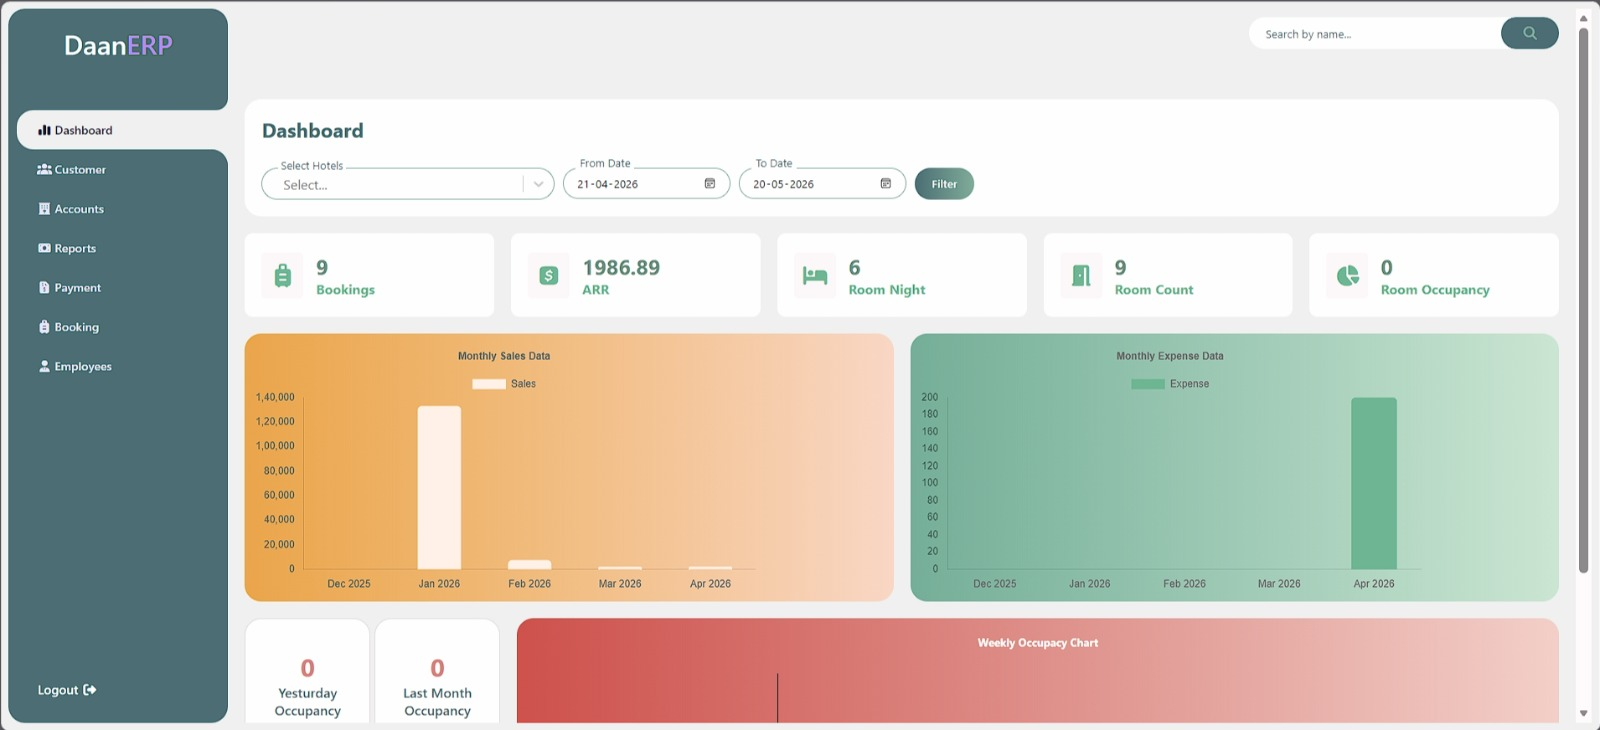
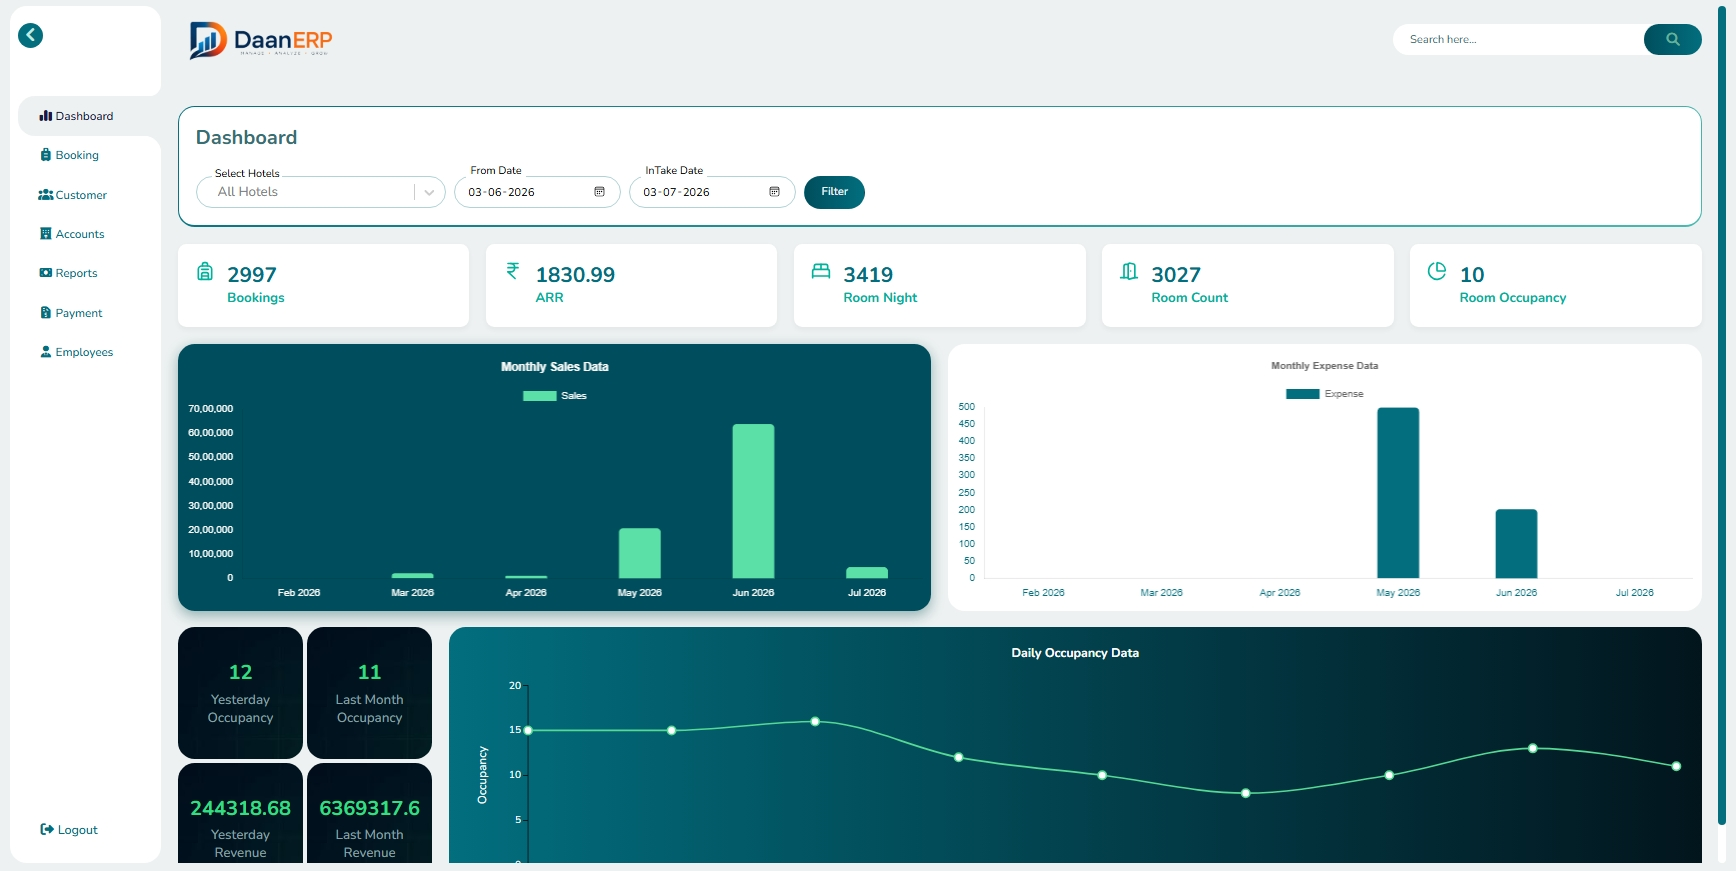
email send

diff --git a/src/components/contact/page.tsx b/src/components/contact/page.tsx
@@ -16,27 +16,45 @@ export default function ContactSection() {
     message: "",
     subject: "",
   });
+const [loading, setLoading] = useState(false);
+  // const onChange = (
+  //   e: React.ChangeEvent<HTMLInputElement | HTMLTextAreaElement>,
+  // ) => {
+  //   setData((prev) => ({ ...prev, [e.target.name]: e.target.value }));
+  // };
 
-  const onChange = (
-    e: React.ChangeEvent<HTMLInputElement | HTMLTextAreaElement>,
-  ) => {
-    setData((prev) => ({ ...prev, [e.target.name]: e.target.value }));
-  };
-
-  const sendEmail = async (e: React.FormEvent<HTMLFormElement>) => {
+   const handleSubmit = async (e) => {
     e.preventDefault();
-    const res = await resend.emails.send({
-      from: data.email,
-      to: "anoopvranoop33@gmail.com",
-      subject: data.subject,
-      html: "<p>" + data.message + "</p>",
-    });
-    if (res.error) {
-      alert("Failed to send message. Please try again later.");
-      return;
+
+    setLoading(true);
+
+    const form = e.target;
+    const formData = new FormData(form);
+
+    try {
+      const response = await fetch(
+        "https://formsubmit.co/anoopvranoop33@gmail.com",
+        {
+          method: "POST",
+          body: formData,
+          headers: {
+            Accept: "application/json",
+          },
+        }
+      );
+
+      if (response.ok) {
+        alert("✅ Email sent successfully!");
+        form.reset();
+      } else {
+        alert("❌ Failed to send email.");
+      }
+    } catch (error) {
+      console.error(error);
+      alert("❌ Something went wrong.");
     }
-    alert("Message sent successfully! I'll get back to you soon.");
-    setData({ email: "", message: "", subject: "" });
+
+    setLoading(false);
   };
 
   return (
@@ -153,7 +171,7 @@ export default function ContactSection() {
           <div className="bg-slate-900 border border-slate-800 rounded-3xl p-8">
             <h3 className="text-3xl font-bold mb-8">Send Message</h3>
 
-            <form onSubmit={sendEmail} className="space-y-6">
+            <form onSubmit={handleSubmit} className="space-y-6">
               {/* Name */}
 
               {/* Email */}
@@ -163,7 +181,7 @@ export default function ContactSection() {
                 </label>
 
                 <input
-                  onChange={onChange}
+                  
                   name="email"
                   type="email"
                   placeholder="Enter your email"
@@ -177,7 +195,7 @@ export default function ContactSection() {
                 </label>
 
                 <input
-                  onChange={onChange}
+                  
                   name="subject"
                   type="text"
                   placeholder="Write your subject..."
@@ -189,16 +207,23 @@ export default function ContactSection() {
               <div>
                 <label className="block mb-2 text-sm text-srose-700">
                   Message
-                </label>
+                </label><input
+        type="text"
+        name="_subject"
+        value="New Portfolio Contact"
+        readOnly
+        className="hidden"
+      />
 
                 <textarea
-                  onChange={onChange}
+                 
                   name="message"
                   rows={6}
                   placeholder="Write your message..."
                   className="w-full bg-slate-950 border border-slate-700 focus:border-rose-700 outline-none rounded-xl px-5 py-4 transition resize-none"
                 />
               </div>
+                    <input type="hidden" name="_captcha" value="false" />
 
               {/* Button */}
               <button

diff --git a/src/components/project/page.tsx b/src/components/project/page.tsx
@@ -6,7 +6,14 @@ import Image from "next/image";
 import { SiGithub } from "react-icons/si";
 import ScrollStack, { ScrollStackItem } from "../scrollComponent";
 
-const projects = [
+const projects = [{
+    title: "Hotel ERP System",
+    description:
+      "REST API , CRUD operations, and role-based access.Redux , pagination for efficient data handling, and  error handling for user experience.Debouce for optimized search and API optimization.",
+    image: "/ERP-New.jpeg",
+    github: "https://github.com/yourusername/task-manager-api",
+    techStack: ["React.js", "Redux", "MUI charts","Pagination","Protected Routes","Debounce"],
+  },
   {
     title: "E-Commerce Platform",
     description:
@@ -33,20 +40,13 @@ const projects = [
     techStack: ["Next.js", "Tailwind CSS", "Framer Motion"],
   },
 
-  {
-    title: "Hotel ERP System",
-    description:
-      "REST API , CRUD operations, and role-based access.Redux , pagination for efficient data handling, and  error handling for user experience.Debouce for optimized search and API optimization.",
-    image: "/ERP-new.jpeg",
-    github: "https://github.com/yourusername/task-manager-api",
-    techStack: ["React.js", "Django", "MySql"],
-  },
+  
 ];
 
 export default function ProjectsSection() {
   return (
     <>
-      <section id="project" className="bg-slate-950 text-white py-20 px-6">
+      <section id="project" className="bg-slate-950/50 text-white py-20 px-6">
         <div className="max-w-7xl mx-auto">
           {/* Heading */}
           <div className="text-center mb-16">
@@ -68,10 +68,10 @@ export default function ProjectsSection() {
             {projects.map((project, index) => (
               <div
                 key={index}
-                className="bg-slate-900 border border-slate-800 rounded-3xl overflow-hidden hover:border-rose-700 transition-all duration-300"
+                className="bg-slate-900/50 border border-slate-800 rounded-3xl overflow-hidden hover:border-rose-700 transition-all duration-300"
               >
                 {/* Project Image */}
-                <div className="relative w-full h-64">
+                <div className="relative w-[95%] m-auto mt-3 h-64 rounded-2xl overflow-hidden">
                   <Image
                     src={project.image}
                     alt={project.title}

diff --git a/src/components/hero/page.tsx b/src/components/hero/page.tsx
@@ -16,7 +16,7 @@ export default function PortfolioWelcome({
   profileImage,
 }: PortfolioWelcomeProps) {
   return (
-    <div className="max-w-5xl h-auto md:h-screen p-10 sm:p-20  w-full grid md:grid-cols-2 gap-10 items-center">
+    <div className="max-w-5xl h-auto md:h-screen p-4 sm:p-20  w-full grid md:grid-cols-2 gap-10 items-center">
       {/* Image */}
       {/* <div className="flex justify-center order-1 md:order-2">
         <div className="relative w-40 h-40 sm:w-60 sm:h-60 md:w-80 md:h-80 rounded-full overflow-hidden border-4 border-rose-700 shadow-2xl shadow-rose-500/20">

diff --git a/src/app/page.tsx b/src/app/page.tsx
@@ -5,11 +5,12 @@ import PortfolioWelcome from "@/components/hero/page";
 import ProjectsSection from "@/components/project/page";
 import SkillsSection from "@/components/skills/page";
 import BackgroundBlur from "../components/BackgroundBlur.jsx";
-import ScrollStack from "../components/scroll.jsx";
+// import ScrollStack from "../components/scroll.jsx";
 
 export default function Home() {
   return (
     <div>
+      {/* <DarkMode /> */}
       <PortfolioWelcome
         name="ANOOP V R"
         designation="Full Stack Developer"

diff --git a/src/components/darkmode/style.css b/src/components/darkmode/style.css
@@ -9,7 +9,7 @@
   height: 100vh;
   /* overflow-x: hidden; */
   overflow: hidden;
-  position: relative;
+  position: absolute;
 }
 
 .mode-tog {
@@ -43,14 +43,15 @@
 }
 
 .dark-mode {
-  position: relative;
+  position: absolute;
   transform: scale(0);
   left: 0;
   right: 0;
   top: 0;
   bottom: 0;
-  width: 250vw;
-  height: 250vw;
+  width:100rem;
+  /* z-index: 1; */
+  height: 100vh;
   border-radius: 50%;
   background-color: #18ff74;
   transition: 1000ms ease-in-out;
